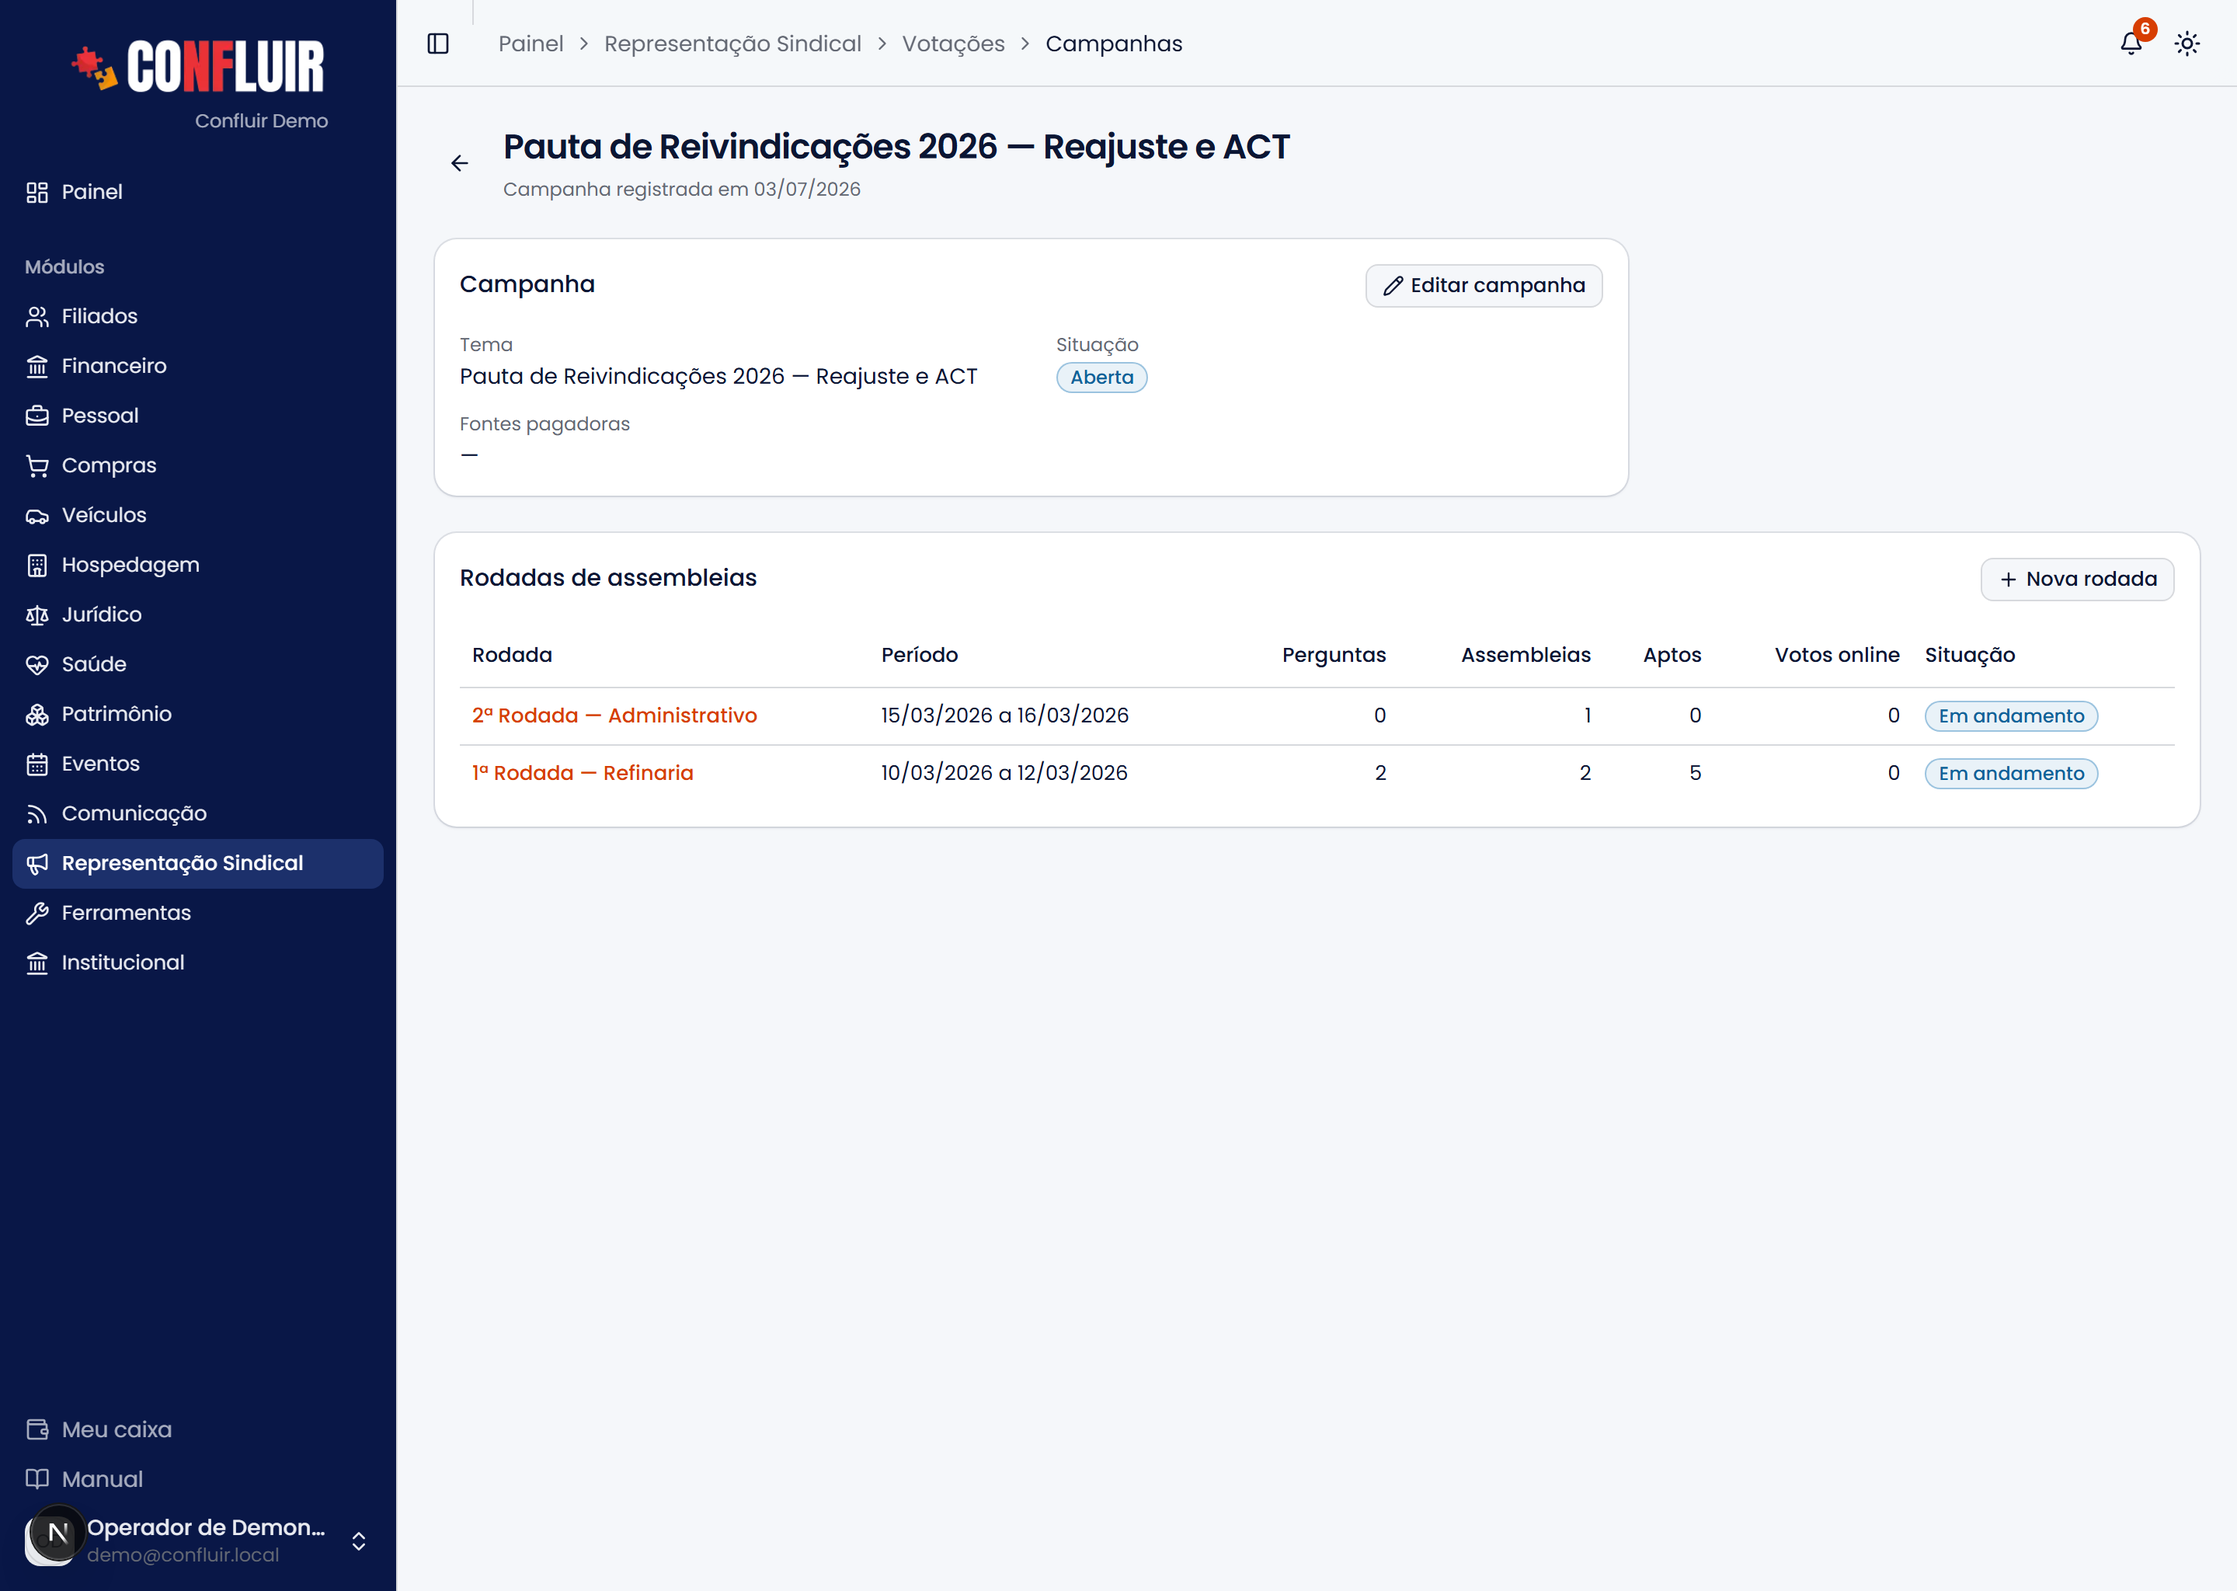
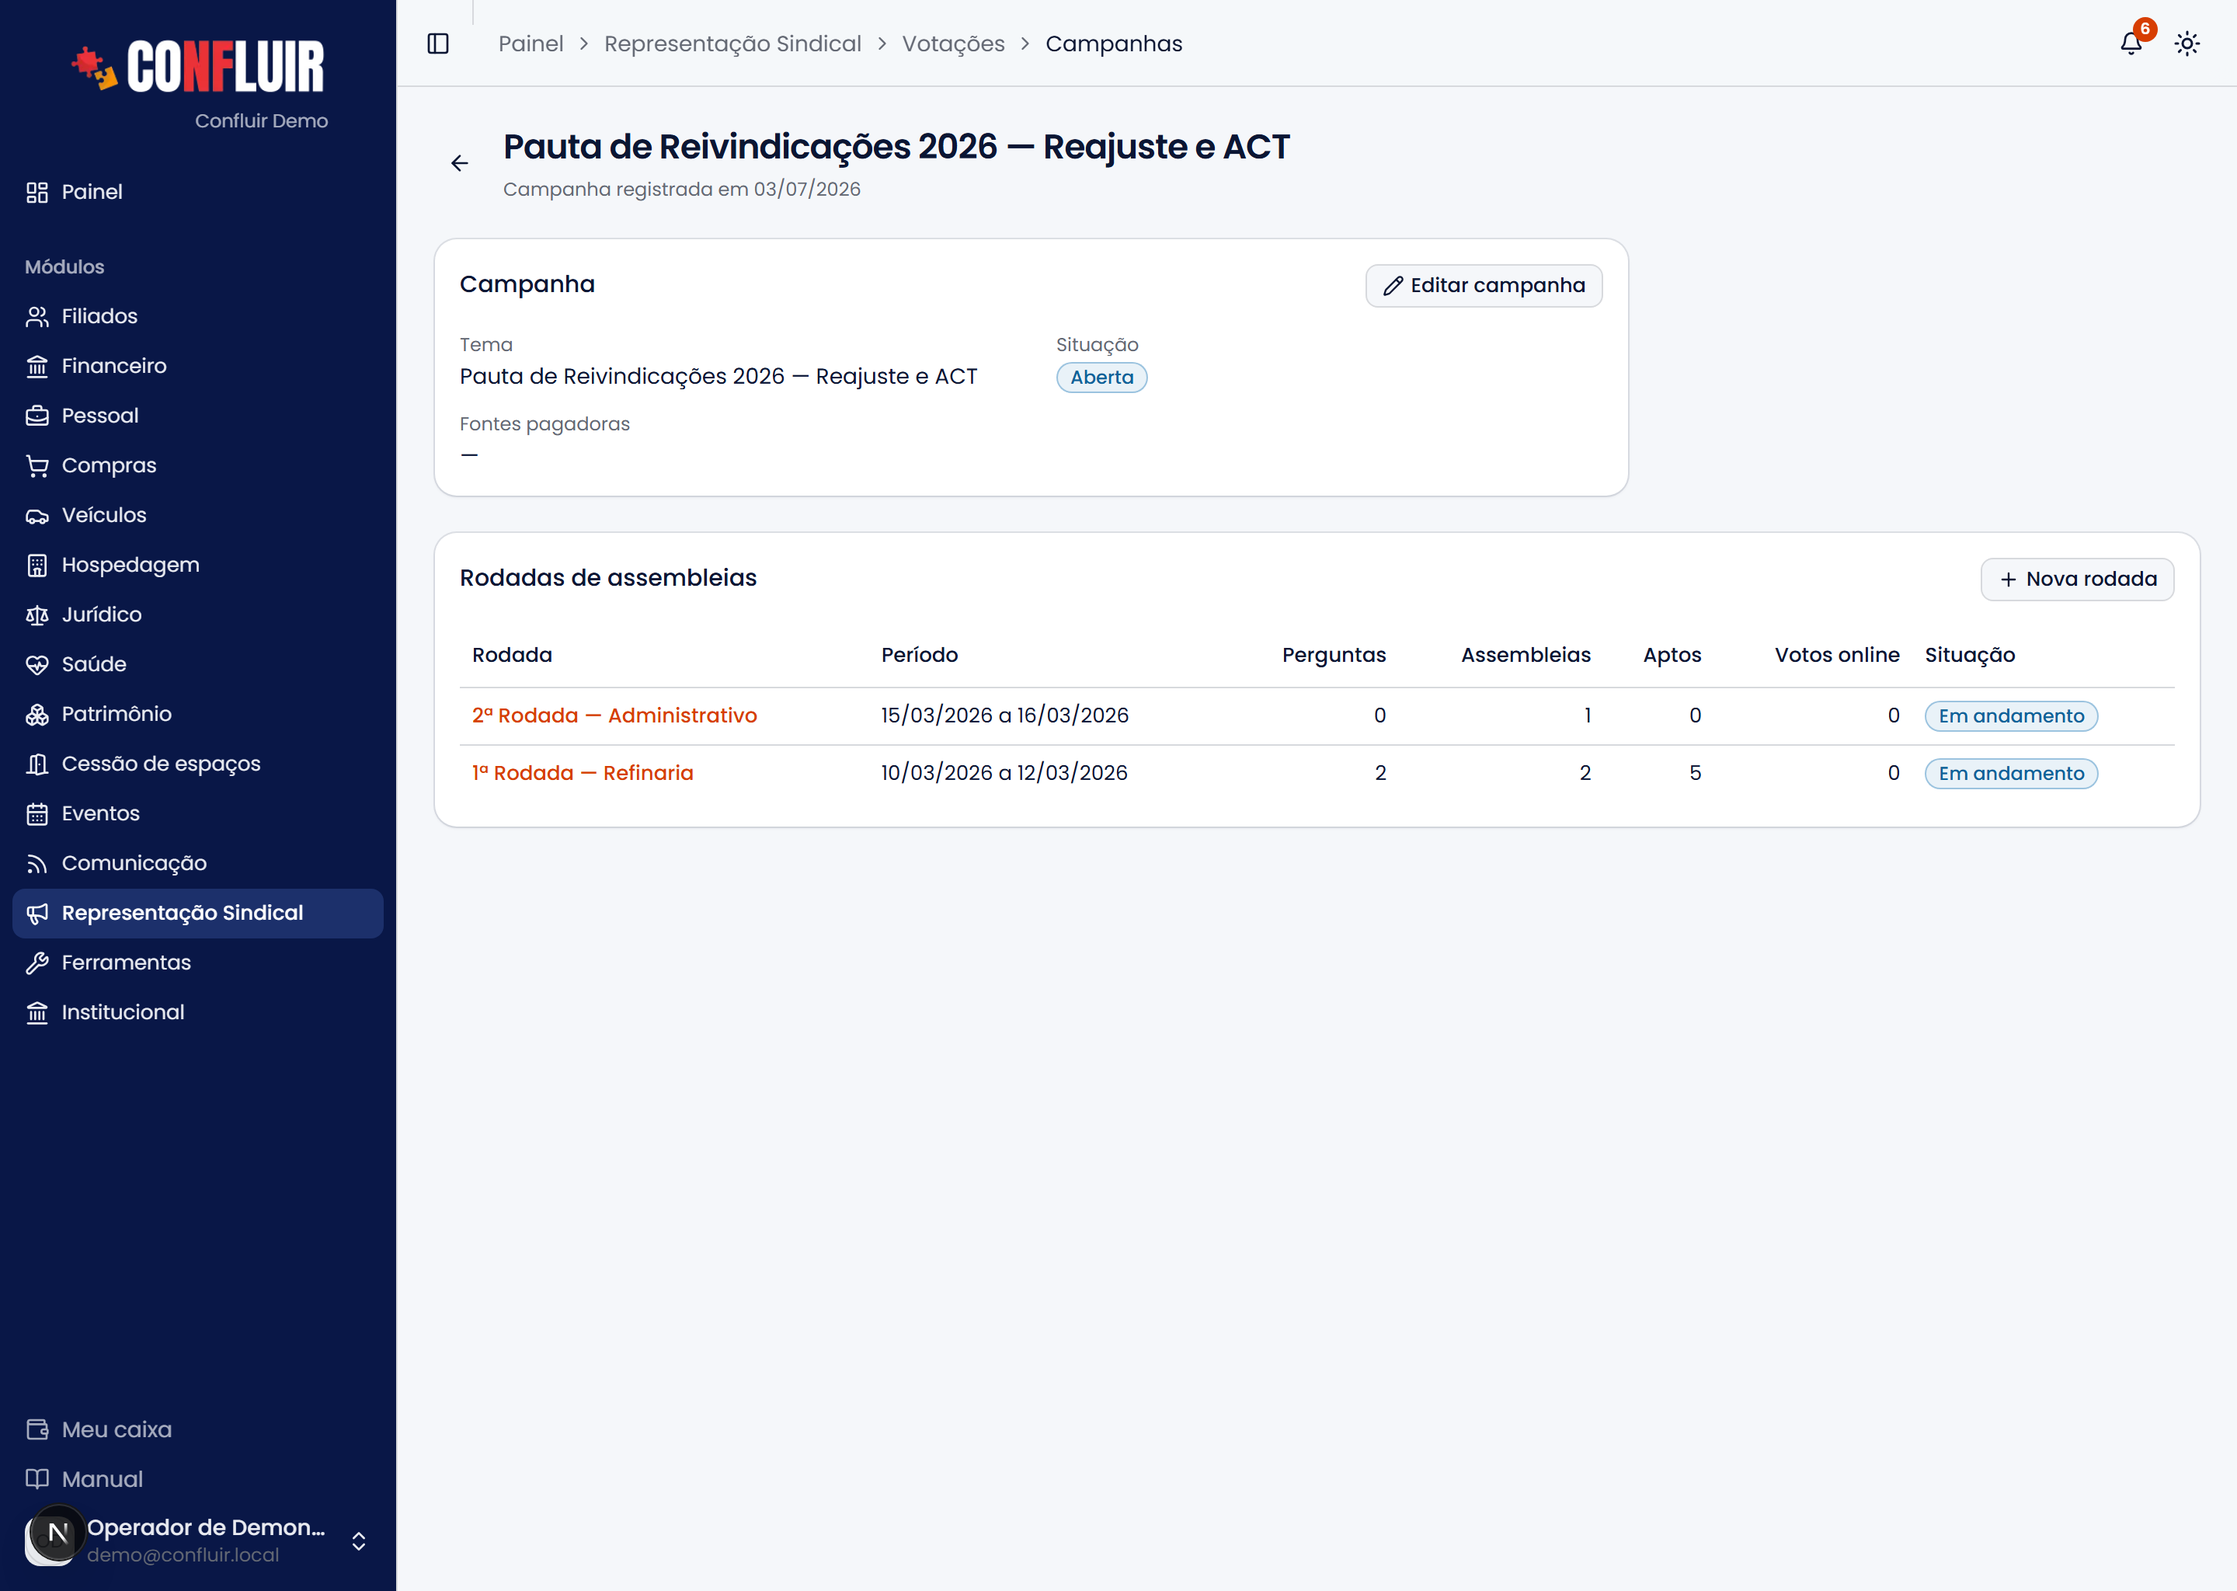
Cessão de espaços: seed da demo, manual e prints
SQL rodado; fase 1 testada na tela. E2E 32/32 no painel e 6/6 no manual.

- scripts/seed-espacos-demo.mjs: "Auditório — plateia" na demo, com 2
  ambientes, faixas por bloco e livre, e um bloqueio de prazo indefinido.
- Artigo do manual em Cessão de espaços, com o print do detalhe.
- Ícone DoorOpen no painel e na ajuda.

O E2E pegou um engano meu no próprio teste: eu conferia "Somente
filiados" no texto da página inteira, e isso casava com a OPÇÃO do
select do formulário — dava verde mesmo sem o espaço ter sido criado.
Passou a conferir o alerta e a esperar a navegação.

Changed region(s): [[0.0, 0.4688, 0.1875, 0.6562]]

diff --git a/src/lib/ajuda/base-conhecimento.ts b/src/lib/ajuda/base-conhecimento.ts
@@ -25,6 +25,11 @@ export const BASE_AJUDA: ArtigoBase[] = [
     "texto": "O módulo Compras cobre todo o ciclo de uma aquisição: da solicitação e da\ncotação até a aprovação por alçada, a compra, o recebimento e o pagamento —\nalém dos contratos com fornecedores e do cadastro de quem fornece.\n\n Compras \n\n Dois caminhos para toda compra\n\nToda aquisição começa em Nova compra e segue por um de dois caminhos. Saber\nqual usar evita metade das dúvidas:\n\n- Aquisição direta — a compra já foi feita pelo departamento (você foi à\n loja, contratou o serviço, já tem a nota). Aqui você apenas registra o que\n aconteceu; o sistema gera a ordem de pagamento em autorização.\n- Via Compras — a compra ainda vai acontecer e precisa de cotação. O\n departamento solicita, o comprador cota com fornecedores, compara as\n propostas, escolhe e compra. É o caminho para valores maiores ou quando é\n preciso comparar preços.\n\nNa dúvida entre os dois: \n Se o dinheiro já saiu (ou a compra já está fechada), é direta. Se você\n está pedindo para o setor de compras providenciar, é via Compras.\n \n\n As áreas do módulo\n\n \n \nNova compra: \n Onde toda aquisição nasce — direta ou via Compras. Ver\n Comprar.\n \n \nÁrea do comprador: \n A fila de trabalho de quem cota e compra: os processos via Compras que\n aguardam ação, agrupados por etapa (solicitados, em cotação, cotados a\n comprar). Comprador \n \n \nAvaliações: \n A fila de ordens aguardando aprovação por alçada — cada uma cai para\n quem pode autorizar aquele valor. Nada é pago sem passar por aqui.\n Avaliação de ordens (alçada) \n \n \nRecebimentos pendentes: \n O que ainda vai chegar: aquisição direta marcada como não recebida e via\n Compras já comprado. A recepção confere e dá baixa quando o item entra.\n Recebimentos \n \n \nContratos e Fornecedores: \n Os contratos com fornecedores (vigência, aditivos e geração de ordens) e o\n cadastro de quem fornece (endereços, dados bancários).\n \n \n\n \n\n Quem faz o quê\n\n- O departamento solicitante abre a solicitação (via Compras) ou registra a\n compra direta que fez.\n- O comprador opera os processos via Compras: abre a cotação, lança as\n propostas, escolhe e compra. Trabalha pela Área do comprador.\n- Quem tem alçada autoriza as ordens em Avaliações, dentro do seu limite\n de valor.\n- A recepção dá baixa nas entregas em Recebimentos pendentes.\n\nCada papel é uma permissão: \n Uma mesma pessoa pode acumular papéis, mas eles são liberados separadamente em\n Institucional → Usuários e permissões (Comprador, Avaliação de ordens,\n Recebimentos, Compras — editar). Ver\n Usuários e permissões.\n \n\nAjudas institucionais não são compras: \n Apoios da entidade a organizações apoiadas ficam em Institucional → Ajudas\n institucionais, não aqui."
   },
   {
+    "area": "espacos",
+    "slug": "index",
+    "texto": "A entidade cede auditório, salão, teatro e área de convivência para\ntrabalhadores, entidades parceiras e, às vezes, terceiros. Esta área guarda\no que pode ser cedido e quando — a solicitação, o termo e a\nautorização vêm nas etapas seguintes do módulo.\n\n Cessão de espaços \n\n Espaço não é o mesmo que ambiente\n\nOs ambientes da entidade já estão cadastrados em Patrimônio › Recintos:\nauditório, pátio, teatro, cozinha, hall. O espaço cedível é outra coisa —\né o que a pessoa pede, e quase nunca é um ambiente só. Quem pega o teatro leva\njunto o hall e a sala de projeção; a área gourmet vem com a cozinha.\n\n \n \nUm espaço, vários ambientes: \n No cadastro, marque todos os ambientes que a cessão ocupa. Não é\n burocracia: é assim que o sistema sabe que ceder um espaço impede o outro.\n \n \nUm ambiente, vários espaços: \n O mesmo teatro pode ser oferecido como &quot;Teatro — plateia&quot; e\n &quot;Teatro — mesas&quot;, com lotações diferentes. São dois espaços que\n dividem o mesmo ambiente, e a página avisa quais vão conflitar.\n \n \n\nA lotação é do espaço: \n Teatro + hall não comporta a soma das partes, e a mesma sala muda de lotação\n conforme o arranjo — plateia, mesas ou de pé. Por isso a lotação é informada\n no espaço, e não herdada do ambiente. É ela que vai definir quantos bombeiros\n civis e seguranças a cessão exige.\n \n\n Quando um ambiente não pode ser escolhido\n\nSó entram no espaço os ambientes com o cadastro completo: nome, sede e\ndescrição física. Os incompletos aparecem numa lista à parte, apagados,\ndizendo o que falta e com o atalho para completar em Patrimônio.\n\nPor que não some da lista: \n Esconder faria você procurar o Teatro, não achar e abrir um chamado. Ele\n aparece — com o motivo à vista.\n \n\n As regras da cessão\n\nCada espaço decide o que exige, e isso comanda a esteira da solicitação:\n\n \n \nQuem pode solicitar: \n Qualquer pessoa, público interno (funcionários e diretores) ou\n somente filiados.\n \n \nVisita técnica: \n Obrigatória, facultativa ou dispensada. O responsável vem\n sugerido do ambiente principal, e pode ser trocado por qualquer funcionário\n ou diretor — inclusive em cada cessão.\n \n \nTermo e autorização: \n Se o espaço exige termo de cessão e se passa por autorização\n (a avaliação política) antes de confirmar.\n \n \nAgenda no link público: \n Ligada, quem acessa o link do espaço vê a ocupação. Desligue quando a\n agenda daquele espaço não deve ficar à vista.\n \n \n\n A agenda: faixas por dia da semana\n\nCada faixa diz um dia, um horário e a forma de cessão:\n\n- Horário livre — quem solicita escolhe início e fim dentro da faixa.\n- Blocos fixos — a faixa é dividida em blocos de duração igual (dois blocos\n de 2 h entre 8 h e 12 h, por exemplo), e a pessoa escolhe um bloco.\n\nDá para marcar vários dias de uma vez: marcando terça e quinta, nascem duas\nfaixas iguais. Terça de manhã pode ser por bloco e terça à noite livre — são\nduas faixas.\n\nFaixas do mesmo dia não podem se sobrepor: \n O sistema recusa cadastrar 11 h–14 h numa terça que já tem 8 h–12 h. Exclua a\n faixa existente e refaça, ou ajuste o horário.\n \n\n \n\n Bloqueios de agenda\n\nUm bloqueio tira o espaço de circulação num período — manutenção, agenda\nprioritária ou outro motivo.\n\nBloqueio sem data para acabar: \n Deixe o término em branco quando não se sabe quando acaba: a obra que\n ainda não tem prazo, o espaço reservado para uma pauta em aberto. O bloqueio\n vale até alguém clicar em Encerrar — e fica no histórico, com a data em\n que terminou.\n \n\n Erros comuns\n\n- &quot;O espaço não aparece para solicitar.&quot; Confira se ele está\n disponível e se tem ao menos uma faixa de horário — sem faixa, não há\n quando ceder.\n- &quot;Marquei um ambiente e outro espaço parou de aceitar pedido.&quot; É\n o esperado: dois espaços que dividem ambiente não podem ser cedidos ao mesmo\n tempo. A página lista quais são.\n- &quot;O Teatro não está na lista de ambientes.&quot; Falta dado no\n cadastro dele — abra a lista de ambientes bloqueados, veja o que falta e\n complete em Patrimônio › Recintos.\n- &quot;Bloqueei por engano.&quot; Encerrar guarda o histórico; excluir\n apaga. Use encerrar quando o bloqueio existiu de verdade."
+  },
+  {
     "area": "eventos",
     "slug": "convidados",
     "texto": "Convidados são as vagas que a entidade reserva e preenche por dentro:\ndiretoria, autoridades, imprensa, entidades parceiras. Quem lança é a equipe —\nconvidado não se inscreve sozinho pelo site.\n\n Gestão de eventos \n\n Primeiro, guarde as vagas\n\nEm Editar → Capacidade, o campo Vagas guardadas para convidados. Sem\nisso, a lista da diretoria disputa as mesmas vagas do site — e chega depois.\n\nA tela de Convidados mostra quatro números:\n\n| Número | O que significa |\n| --- | --- |\n| Convidados | quantos já foram lançados |\n| Cota | quantas vagas estão guardadas e quantas dessas ainda estão livres |\n| Vagas do público | o que o link público enxerga |\n| Total confirmado | todo mundo, convidado ou não |\n\n Lançar um convidado\n\nPara uma pessoa só, o formulário Lançar um convidado: nome completo, CPF,\ne-mail, telefone e A convite de.\n\n&quot;A convite de&quot; não é quem digitou: \n Quem digita costuma ser a secretaria; quem convida é o diretor. Na porta e na\n prestação de contas, o nome que importa é o do anfitrião — por isso o campo\n existe separado.\n \n\nO CPF é opcional aqui, mas sem ele o sistema não consegue detectar que a pessoa\njá estava inscrita, nem encontrá-la por documento na recepção. A mensagem de\nsucesso avisa isso.\n\n \n\n Importar uma planilha\n\n \n \nBaixe o modelo: \n Botão Baixar modelo (.xlsx) , no alto da tela. Ele já vem\n com o nome do evento e uma aba de instruções.\n \n \nPreencha a aba Convidados: \n Uma pessoa por linha. Nome completo e CPF são obrigatórios; e-mail, telefone\n e &quot;A convite de&quot; são opcionais.\n \n \nSuba o arquivo: \n Em Importar planilha , escolha o arquivo e clique em\n Importar.\n \n \nConfira o que voltou: \n O sistema lê o arquivo inteiro antes de gravar. Se houver erro,\n nada entra e a tela lista cada problema com o número da linha.\n \n \n\n O que a importação perdoa\n\n- A linha de exemplo (Maria Aparecida) sai sozinha. Não precisa apagar.\n- Cabeçalho renomeado — &quot;Email&quot;, &quot;Celular&quot;,\n &quot;Documento&quot;, &quot;Convidado por&quot; e outros apelidos são\n reconhecidos.\n- Aba renomeada — &quot;Lista 2026&quot; funciona; o sistema só evita a aba\n de instruções.\n- Linha em branco no meio — é sobra de edição, não erro.\n- CPF com zero à esquerda — numa célula sem formatação de texto, o Excel\n transforma 012.345.678-90 no número 1234567890 e come o zero. O sistema o\n devolve, conferindo os dígitos verificadores antes.\n\n O que ela recusa\n\nCada problema vem com a linha como você a vê no Excel:\n\n- linha 14: CPF inválido (123.456.789-00)\n- linha 22: CPF repetido na própria planilha (já apareceu na linha 9)\n- linha 30: já está inscrito neste evento\n- linha 7: nome incompleto — informe nome e sobrenome\n- linha 41: e-mail inválido\n\nImportar as linhas certas mesmo assim: \n Por padrão, um erro em qualquer linha impede a importação inteira — que\n costuma ser o que você quer na primeira tentativa. Se preferir aproveitar o\n resto, marque a caixa; o rótulo diz antes quantos convidados entrariam.\n \n\nReimportar a planilha corrigida não duplica ninguém: o CPF é a chave, e quem\njá está no evento aparece como &quot;já está inscrito&quot;.\n\n \n\n Depois de importar\n\nConvidado entra confirmado — a vaga foi reservada pela entidade, não há o\nque aprovar — e não confirma e-mail, porque não foi ele quem se inscreveu.\n\nSe a importação passar da cota ou da lotação, a mensagem diz. Não bloqueia: a\ndecisão é sua.\n\n Remover\n\nO ícone de lixeira só aparece antes de haver presença registrada. Depois que\na pessoa entrou no evento, aquilo virou histórico e não some."

diff --git a/src/lib/ajuda/manifesto.ts b/src/lib/ajuda/manifesto.ts
@@ -388,6 +388,21 @@ export const AREAS_AJUDA: AreaAjuda[] = [
     ],
   },
   {
+    slug: "espacos",
+    titulo: "Cessão de espaços",
+    descricao: "Os espaços que a entidade cede, com agenda e bloqueios",
+    icone: "DoorOpen",
+    ...permissaoDoModulo("/painel/espacos"),
+    disponivel: true,
+    artigos: [
+      {
+        slug: "index",
+        titulo: "Cadastrar um espaço cedível",
+        resumo: "Ambientes, lotação, regras da cessão, agenda e bloqueios",
+      },
+    ],
+  },
+  {
     slug: "patrimonio",
     titulo: "Patrimônio",
     descricao: "Bens patrimoniais: itens, recintos, notas fiscais e cautelas",

diff --git a/src/components/ajuda/icones.ts b/src/components/ajuda/icones.ts
@@ -6,6 +6,7 @@ import {
   Building2,
   CalendarDays,
   Car,
+  DoorOpen,
   FileSignature,
   Globe,
   Handshake,
@@ -38,6 +39,7 @@ export const ICONES_AJUDA: Record<string, LucideIcon> = {
   Building2,
   CalendarDays,
   Car,
+  DoorOpen,
   FileSignature,
   Globe,
   Handshake,
